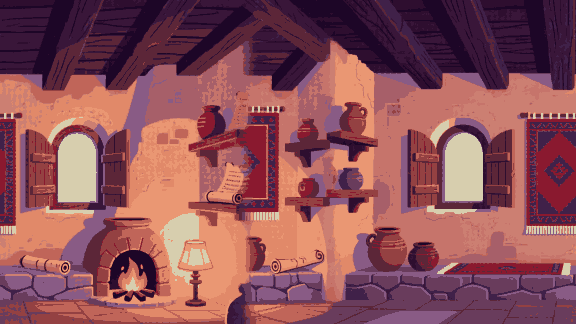
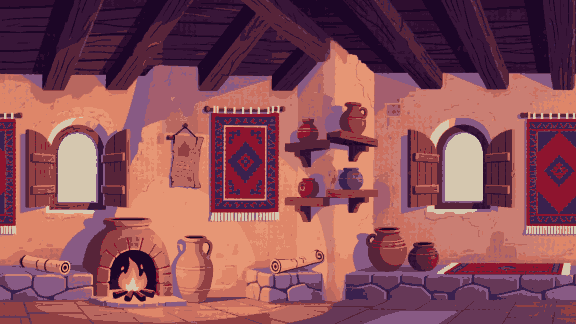
Art A2 rework: the elder's house at the grandfather's-house scale (wide one-storey, door 36x91 like grandpa 34x86); the elder's interior wall without the shade table lamp and the floor blob (repainted x 165-268)
Claude-Session: https://claude.ai/code/session_01A2gnDWaoeJGbj3GPH4dnCF

diff --git a/Scripts/Tools/comfy_backdrop.py b/Scripts/Tools/comfy_backdrop.py
@@ -686,14 +686,17 @@ LAYERS = {
             f"{CHROMA}"
         ),
     ),
+    # Масштаб — як дім діда й крамниця (двері ~34×85 px шару): двоповерховий виходив ляльковим будиночком
+    # (двері 32×58), а два поверхи в такому масштабі не влазять в одноклітинне село (Q58) — тож широкий одноповерховий.
     "Village/gen_elder_house": dict(
-        seed=383,
+        seed=387,
         rows=220,
         top=0,
         seam="none",
         trim=True,
-        cut=(146, 424),  # лише будинок: дюни обабіч модель домальовує
-        keep=211,  # нижче — пісок під ним
+        cut=(52, 520),  # лише будинок: дюни обабіч модель домальовує
+        holes=True,  # 2 px шпарина біля цоколя праворуч
+        keep=210,  # нижче — пісок під ним
         key="green",
         shade=0,
         fill=False,
@@ -701,7 +704,7 @@ LAYERS = {
         colors=16,
         quant="octree",
         prompt=(
-            "one single big village elder's house: a wide two-storey adobe and sandstone house with a flat roof terrace and a low parapet, wooden roof beams sticking out, a tall wide arched wooden double door in its middle, small shuttered windows, a wooden balcony on the upper floor under a striped red and blue cloth awning, long red and blue cloth banners on both sides of the door, big clay jars by the stone steps, standing alone in the middle of the frame and filling two thirds of its width, with empty space on both sides, its base resting on the bottom edge, it stands directly on bare sand, warm light on the top, cool violet shadows in the recesses, "
+            "one single wide village elder's house: a long one-storey adobe and sandstone house, grander and wider than its neighbours, with a flat roof terrace edged by a low stepped parapet, wooden roof beams sticking out under the parapet, a tall closed arched wooden double door in its middle reaching more than half the height of the wall, a big shuttered window on each side of the door, a covered porch in front of the door under a striped red and blue cloth awning held on two wooden posts, long red and blue cloth banners hanging on the wall, big clay jars beside the low stone step, seen at a slight angle from the left with its left side wall in shadow, standing alone in the middle of the frame and filling two thirds of its width, with empty space on both sides, its base resting on the bottom edge, it stands directly on bare sand, warm light on the top, cool violet shadows in the recesses, "
             f"{CHROMA}"
         ),
     ),
@@ -719,7 +722,11 @@ LAYERS = {
         prompt="the inner wall of a village elder's house seen straight on: plastered warm adobe walls with dark wooden "
         "ceiling beams across the top, two small arched windows with open wooden shutters, woven red and blue carpets "
         "hanging on the wall, wooden shelves with clay pots, jars and old scrolls, a low clay hearth with a small fire, "
-        "a low stone plinth along the bottom, warm lamp light",
+        "a tall plain clay water jar and a round clay pot standing on the bare floor to the right of the hearth, a low "
+        "stone plinth along the bottom, a clean empty floor in front, warm light from the hearth fire",
+        # «warm lamp light» дав торшер з абажуром біля вогнища (технології в лорі немає) і темну пляму на підлозі;
+        # картинка — стара з кешу, перемальована: --repaint 165-255 --denoise 0.9 (арт-директор, artA1A2; на 0.75
+        # абажур ставав жаровнею з другим вогнем)
     ),
 }
 
@@ -1082,7 +1089,9 @@ if __name__ == "__main__":
                 pal = np.unique(px[clean], axis=0)
                 d = np.linalg.norm(px[tinted][:, None, :] - pal[None], axis=2)
                 out[tinted, :3] = pal[d.argmin(axis=1)]
-        for sx, dx, w, y0, y1 in layer.get("patch", []):  # латка: стовпці sx.. на місце dx.. (по колу — шар безшовний)
+        for sx, dx, w, y0, y1 in layer.get(
+            "patch", []
+        ):  # латка: стовпці sx.. на місце dx.. (по колу — шар безшовний)
             out[y0:y1, (dx + np.arange(w)) % W] = out[y0:y1, (sx + np.arange(w)) % W]
         if layer.get("trim"):  # предмет, а не екран: лише його рамка
             ys, xs = np.nonzero(out[..., 3])

diff --git a/SampleProject/Assets/Backgrounds/Village/README.md b/SampleProject/Assets/Backgrounds/Village/README.md
@@ -13,4 +13,4 @@ pixel (576×324, ×1.5 in the game) and a few colours. A Steam release has to di
 The backdrop behind them is the Canyon's (`desert_backdrop_canyon.tscn`: the pack's sky, generated clouds, mesas and
 canyon walls — D235).
 | `gen_grandpa_house.png` | not wired yet (BACKLOG 29, art A2): the grandfather's house — bench, staff, peppers; 328×181, doorway x 141–175 down to row 164, sand to row 180 |
-| `gen_elder_house.png` | not wired yet (BACKLOG 38, art A2): the village elder's two-storey house at the end of the Village; 278×201, closed arched door x 140–172, threshold row 184 on the steps; inside = `../ElderHouse/gen_wall.png` |
+| `gen_elder_house.png` | not wired yet (BACKLOG 38, art A2): the village elder's house at the end of the Village — a wide one-storey house with a crenellated roof terrace, a porch under a red and blue awning, banners and jars (two storeys at the grandfather's-house scale do not fit the one-cell Village, Q58); 468×191, same scale as `gen_grandpa_house` and `Road/gen_shop`: closed arched double door x 163–201, rows 76–167 (threshold row 167 on the steps), windows ~30 px plus shutters; sand to row 190; inside = `../ElderHouse/gen_wall.png` |

diff --git a/SampleProject/Assets/Backgrounds/ElderHouse/README.md b/SampleProject/Assets/Backgrounds/ElderHouse/README.md
@@ -6,6 +6,6 @@ pixel (576×324, ×1.5 in the game) and 16 colours. A Steam release has to discl
 
 | File | Use |
 |---|---|
-| `gen_wall.png` | not wired yet: the room's wall Sprite2D, like `Hall/gen_wall.png` in the Mayor Hall — adobe walls under dark ceiling beams, two shuttered windows, hanging carpets, shelves with pots and scrolls, a clay hearth with a fire, a stone plinth and floor along the bottom; seamless left–right |
+| `gen_wall.png` | not wired yet: the room's wall Sprite2D, like `Hall/gen_wall.png` in the Mayor Hall — adobe walls under dark ceiling beams, two shuttered windows, hanging carpets and a parchment, shelves with pots, a clay hearth with a fire and a tall clay jar beside it, a stone plinth and floor along the bottom; seamless left–right. x 165–268 repainted (`--repaint`) — the first version had a fabric-shade table lamp on the floor and a dark blob on the floor line |
 
 The outside of the house is `../Village/gen_elder_house.png`.
